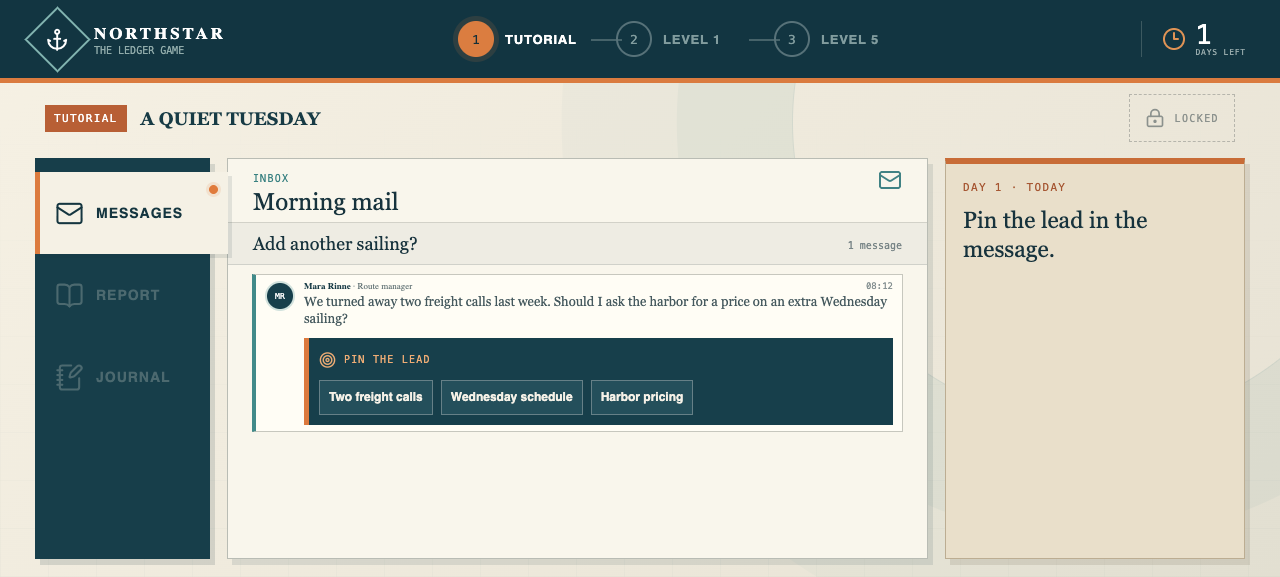
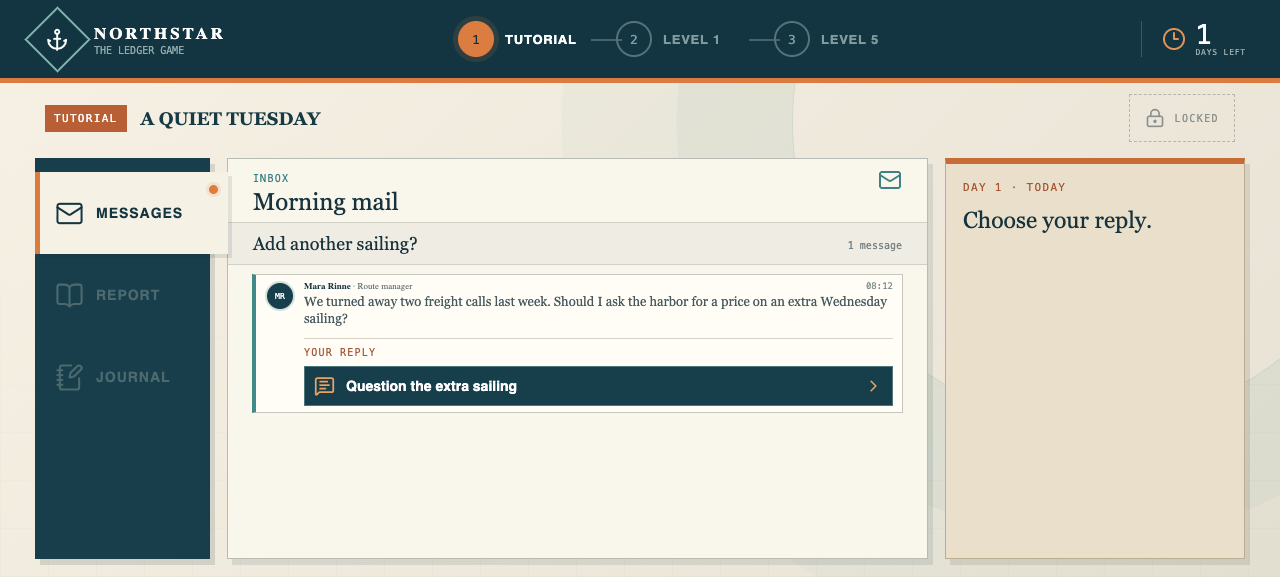
ledger: Turn question unlocks into voiced email replies

Changed region(s): [[0.1875, 0.5615, 0.7188, 0.7487], [0.75, 0.3744, 0.9062, 0.4679]]

diff --git a/aug12/src/styles.ts b/aug12/src/styles.ts
@@ -12,7 +12,7 @@ export const GlobalStyle = createGlobalStyle`
 .tool-title{min-height:88px;padding:19px 25px 15px;display:flex;justify-content:space-between;align-items:flex-start;border-bottom:1px solid #d2d1c8}.tool-title span{font:10px var(--mono);letter-spacing:.12em;color:#398181}.tool-title h2{font:30px var(--display);margin:4px 0 0}.tool-title>svg{color:#408284;width:31px}.report-screen,.audit-screen,.messages-screen{min-height:100%;display:flex;flex-direction:column}.report-table{padding:18px 24px}.report-head,.report-table>button{display:grid;grid-template-columns:1.4fr repeat(2,1fr) .65fr;align-items:center}.report-head{height:38px;background:#173e49;color:#dce7e4;padding:0 15px;font:10px var(--mono);letter-spacing:.08em}.report-head span:not(:first-child){text-align:right}.report-table>button{width:100%;height:68px;border:0;border-bottom:1px solid #c9ccc5;background:#f5f2e9;padding:0 15px;text-align:right;cursor:pointer;position:relative}.report-table>button:hover{background:white}.report-table>button.selected{background:#e3efea;outline:3px solid #368b88;z-index:1}.report-table>button.selected::before{content:'';position:absolute;left:0;top:0;bottom:0;width:6px;background:#378a88}.report-table b{text-align:left;font-size:16px}.report-table span{font:14px var(--mono)}.report-table em{font:normal 14px var(--mono);color:#456b62}.report-table .warn em{color:#bd6b34}.report-table .bad em{color:#b34237;font-weight:700}.report-table .good em{color:#397860}.report-tip{margin:auto 24px 20px;padding:14px 16px;background:#e3e1d8;display:flex;justify-content:space-between;align-items:center}.report-tip b,.report-tip small{display:block}.report-tip b{font-size:15px}.report-tip small{font-size:12px;color:#6e7a79;margin-top:3px}.report-tip button{border:0;background:#1d5d6b;color:white;padding:12px 15px;display:flex;align-items:center;gap:10px;font-size:13px;font-weight:700;cursor:pointer}.report-tip button:disabled{background:#9a9e96;color:#e7e5dd;cursor:not-allowed}.report-tip svg{width:17px}
 .audit-cards{padding:20px 24px;display:grid;grid-template-columns:repeat(2,minmax(220px,1fr));gap:13px}.audit-cards>button{min-height:184px;background:#f1eee4;border:1px solid #bfc2ba;padding:15px;text-align:left;position:relative;cursor:pointer;display:flex;flex-direction:column}.audit-cards>button:hover:not(:disabled){background:white;border-color:#388786;transform:translateY(-2px);box-shadow:0 5px 0 #286b6720}.audit-cards>button:disabled{cursor:not-allowed;opacity:.58}.choice-top{display:flex;align-items:center;justify-content:space-between}.choice-top>span{width:38px;height:38px;display:grid;place-items:center;background:#dce9e5;color:#276e72}.choice-top svg{width:21px}.choice-top em{font:normal 9px var(--mono);color:#b25e35}.audit-cards h3{font:19px var(--display);margin:13px 0 5px}.audit-cards p{font-size:11px;line-height:1.5;color:#697777;margin:0 0 13px}.audit-cards>button>div:last-of-type{margin-top:auto;font:9px var(--mono);letter-spacing:.08em;color:#277175;display:flex;align-items:center;gap:6px}.audit-cards>button>div:last-of-type svg{width:15px}.audit-cards button.done{border-color:#75a28f;background:#e6eee8}.pick-me{position:absolute;right:-5px;top:-7px;background:#dc783d;color:white;padding:5px 8px;font:normal 8px var(--mono);letter-spacing:.08em;transform:rotate(2deg)}
 .day-card{background:#e9dfca}.day-agenda{margin-bottom:16px}.day-agenda>span{font:9px var(--mono);letter-spacing:.11em;color:#7c705e}.day-agenda>p{font:12px/1.5 var(--display);color:#786e60;border-left:2px solid #baa98d;padding-left:10px}.day-agenda>div{display:flex;gap:9px;align-items:center;padding:11px 0;border-bottom:1px solid #cbbda4}.day-agenda svg{width:19px;color:#b96539}.day-agenda b,.day-agenda small{display:block}.day-agenda b{font-size:13px}.day-agenda small{font:10px var(--mono);color:#7b7467;margin-top:3px}.big-action.muted{background:#96978f;box-shadow:0 4px 0 #74766f;cursor:not-allowed}.next-day{background:#c86d3a;box-shadow:0 4px 0 #884729}
-.messages-screen article{margin:27px 28px 15px;background:#fffdf5;border:1px solid #c7c7be;border-left:6px solid #418a89;padding:22px;display:flex;gap:17px;box-shadow:3px 4px 0 #213d4515}.messages-screen article.new{border-left-color:#dc793d}.portrait{width:53px;height:53px;flex:none;border-radius:50%;display:grid;place-items:center;background:#173f4b;color:white;font:13px var(--mono);border:4px solid #d2e2dd}.messages-screen article span{font:9px var(--mono);letter-spacing:.1em;color:#c05d31}.messages-screen article h3{font:24px var(--display);margin:5px 0 9px}.messages-screen article p{font:17px/1.55 var(--display);margin:0;color:#45595e}.lead-picker{margin-top:18px;padding:14px;background:#173f4b;color:white;border-left:5px solid #dc793d}.lead-picker>span{display:flex!important;align-items:center;gap:8px!important;color:#efad75!important;font:10px var(--mono)!important;letter-spacing:.12em!important}.lead-picker>span svg{width:17px}.lead-picker>div{display:flex;flex-wrap:wrap;gap:8px;margin-top:11px}.lead-picker button{min-height:42px;border:1px solid #668087;background:#244f5b;color:#f5f1e7;padding:8px 12px;font-size:12px;font-weight:700;cursor:pointer;display:flex;align-items:center;gap:6px}.lead-picker button:hover{border-color:#eda365;background:#2e5d68}.lead-picker button.miss{border-color:#d87865;color:#ffb4a5;animation:lead-miss .25s ease}.lead-picker button svg{width:15px}@keyframes lead-miss{50%{transform:translateX(3px)}}.attachment-button{width:100%;margin-top:16px;border:1px solid #b8c4bd;background:#e8efe9;padding:11px 12px;display:flex;align-items:center;gap:11px;text-align:left;cursor:pointer}.attachment-button:hover{background:#f4f8f3;border-color:#438581}.attachment-button>svg{width:20px;color:#2c7475;flex:none}.attachment-button>span{flex:1}.attachment-button b{display:block;font-size:14px;color:#214852}.older-messages{margin:0 28px}.older-messages>span{font:9px var(--mono);color:#708080}.older-messages>div{display:flex;gap:9px;align-items:center;padding:9px;border-bottom:1px solid #d5d5cd}.older-messages svg{width:16px;color:#3a7c61}.older-messages b,.older-messages small{display:block}.older-messages b{font-size:11px}.older-messages small{font-size:9px;color:#748181}.message-foot{margin:auto 28px 23px;padding:12px;border-top:1px solid #d0d1ca;display:flex;gap:9px;align-items:center;color:#6b7879}.message-foot svg{width:19px}.message-foot p{margin:0;font:italic 12px var(--display)}
+.messages-screen article{margin:27px 28px 15px;background:#fffdf5;border:1px solid #c7c7be;border-left:6px solid #418a89;padding:22px;display:flex;gap:17px;box-shadow:3px 4px 0 #213d4515}.messages-screen article.new{border-left-color:#dc793d}.portrait{width:53px;height:53px;flex:none;border-radius:50%;display:grid;place-items:center;background:#173f4b;color:white;font:13px var(--mono);border:4px solid #d2e2dd}.messages-screen article span{font:9px var(--mono);letter-spacing:.1em;color:#c05d31}.messages-screen article h3{font:24px var(--display);margin:5px 0 9px}.messages-screen article p{font:17px/1.55 var(--display);margin:0;color:#45595e}.messages-screen article.player-dialogue{margin-top:0;margin-left:72px;border-left-color:#d67a40;background:#f1eee4;animation:mail-arrive .3s ease-out both}.dialogue-choice{margin-top:18px;padding-top:12px;border-top:1px solid #d5d1c5}.dialogue-choice>span{display:block!important;color:#a75633!important;font:10px var(--mono)!important;letter-spacing:.12em!important;margin-bottom:8px}.dialogue-choice button{width:100%;min-height:50px;border:1px solid #4e777c;background:#173f4b;color:white;padding:10px 12px;display:flex;align-items:center;gap:11px;text-align:left;cursor:pointer}.dialogue-choice button:hover{background:#245461;border-color:#d8864f}.dialogue-choice button>svg:first-child{width:21px;color:#efa061;flex:none}.dialogue-choice button>b{font-size:14px;flex:1}.dialogue-choice button>svg:last-child{width:19px;color:#efa061}.attachment-button{width:100%;margin-top:16px;border:1px solid #b8c4bd;background:#e8efe9;padding:11px 12px;display:flex;align-items:center;gap:11px;text-align:left;cursor:pointer}.attachment-button:hover{background:#f4f8f3;border-color:#438581}.attachment-button>svg{width:20px;color:#2c7475;flex:none}.attachment-button>span{flex:1}.attachment-button b{display:block;font-size:14px;color:#214852}.older-messages{margin:0 28px}.older-messages>span{font:9px var(--mono);color:#708080}.older-messages>div{display:flex;gap:9px;align-items:center;padding:9px;border-bottom:1px solid #d5d5cd}.older-messages svg{width:16px;color:#3a7c61}.older-messages b,.older-messages small{display:block}.older-messages b{font-size:11px}.older-messages small{font-size:9px;color:#748181}.message-foot{margin:auto 28px 23px;padding:12px;border-top:1px solid #d0d1ca;display:flex;gap:9px;align-items:center;color:#6b7879}.message-foot svg{width:19px}.message-foot p{margin:0;font:italic 12px var(--display)}
 .request-desk{margin-top:auto;border-top:1px solid #cfcec5;background:#eeece3;padding:14px 24px 18px}.request-heading{display:flex;align-items:baseline;justify-content:space-between;gap:18px;margin-bottom:10px}.request-heading span{font:10px var(--mono);letter-spacing:.11em;color:#a65834}.request-cards{display:grid;grid-template-columns:repeat(2,minmax(210px,1fr));gap:8px}.request-cards>button{min-height:84px;border:1px solid #bfc2ba;background:#fffdf6;padding:10px;display:flex;gap:10px;text-align:left;cursor:pointer}.request-cards>button:hover:not(:disabled){border-color:#378783;background:white;transform:translateY(-1px)}.request-cards>button:disabled{cursor:not-allowed;opacity:.58}.request-cards>button.queued{opacity:1;border-color:#d18a59;background:#fff5e9}.request-cards>button.done{border-color:#82a695;background:#e7eee8}.request-icon{width:33px;height:33px;display:grid;place-items:center;flex:none;background:#dce9e5;color:#276e72}.request-icon svg{width:18px}.request-cards>button>span:last-child{min-width:0;display:flex;flex-direction:column}.request-cards b{font:16px var(--display)}.request-cards small{font-size:11px;line-height:1.35;color:#697777;margin-top:3px}.request-cards em{font:normal 9px var(--mono);letter-spacing:.07em;color:#b35f35;margin-top:auto;padding-top:6px}
 .thread-subject{position:relative;padding:13px 25px 12px;border-bottom:1px solid #d0d1ca;background:#eeece3}.thread-subject h3{font:20px var(--display);margin:0 90px 0 0}.thread-subject small{position:absolute;right:25px;bottom:16px;font:10px var(--mono);color:#778486}.email-thread{padding:12px 24px 8px;display:grid;gap:8px}.tutorial-mail article.thread-message{margin:0;padding:11px 13px;gap:12px;border-left-width:4px;box-shadow:none}.tutorial-mail article.thread-message.player-message,.tutorial-mail article.thread-message.reply-composer{margin-left:45px;border-left-color:#d67a40;background:#f1eee4}.tutorial-mail article.thread-message.reply-composer{border-color:#d6a077;background:#fffaf0}.tutorial-mail .thread-message .portrait{width:38px;height:38px;border-width:3px;font-size:10px}.tutorial-mail .thread-message>div:last-child{min-width:0;flex:1}.tutorial-mail .thread-message header{display:flex;justify-content:space-between;gap:14px;color:#677779;font-size:10px}.tutorial-mail .thread-message header span{font:10px Manrope;letter-spacing:0;color:#677779}.tutorial-mail .thread-message header b{color:#183b46}.tutorial-mail .thread-message time{font:9px var(--mono);color:#859091}.tutorial-mail article.thread-message p{font:15px/1.45 var(--display);margin:5px 0 0;color:#45595e}.tutorial-mail article.reply-composer p{padding:9px 10px;background:white;border:1px solid #d8d1c2}.tutorial-mail .send-mail{margin:9px 0 0 auto;border:0;background:#c96f3a;color:white;padding:9px 12px;display:flex;align-items:center;gap:8px;font-size:10px;font-weight:800;cursor:pointer;box-shadow:0 3px 0 #8d4828}.tutorial-mail .send-mail:hover{transform:translateY(-1px)}.tutorial-mail .send-mail svg{width:15px;height:15px}.tutorial-mail .tool-title{min-height:72px;padding:13px 25px 10px}.tutorial-mail .tool-title h2{font-size:27px;margin-top:2px}.tutorial-mail .tool-title>svg{width:27px}.tutorial-mail .thread-subject{padding:10px 25px}.tutorial-mail .thread-subject h3{font-size:18px}.tutorial-mail .thread-subject small{bottom:13px}.tutorial-mail .email-thread{padding:9px 24px 7px;gap:7px}.tutorial-mail article.thread-message{padding:9px 11px;gap:10px}.tutorial-mail article.thread-message.player-message,.tutorial-mail article.thread-message.reply-composer{margin-left:34px}.tutorial-mail article.thread-message p{font-size:14px;line-height:1.4;margin-top:4px}.tutorial-mail article.reply-composer p{padding:7px 9px}.tutorial-mail .thread-message .portrait{width:34px;height:34px;border-width:2px;font-size:9px}.tutorial-mail .thread-message header,.tutorial-mail .thread-message header span,.tutorial-mail .thread-message time{font-size:9px}.tutorial-mail .request-desk{padding-top:10px;padding-bottom:11px}.tutorial-mail .request-cards>button{min-height:76px}.mail-waiting{min-height:64px;margin-left:45px;border:1px dashed #9caaa6;background:#edf0ea;display:flex;align-items:center;justify-content:center;gap:13px;color:#617374}.mail-waiting>i{width:10px;height:10px;border-radius:50%;background:#3b8b88;box-shadow:18px 0 0 #77aaa5,36px 0 0 #b1c6c1;animation:waiting-dots 1.1s ease-in-out infinite}.mail-waiting span{margin-left:36px}.mail-waiting b,.mail-waiting small{display:block}.mail-waiting b{font-size:11px;color:#284d55}.mail-waiting small{font:9px var(--mono);margin-top:3px}.incoming-message{animation:mail-arrive .42s ease-out both;box-shadow:0 0 0 3px #d9824320!important}.incoming-action{animation:mail-arrive .42s .08s ease-out both}@keyframes waiting-dots{50%{opacity:.35;transform:translateY(-2px)}}@keyframes mail-arrive{from{opacity:0;transform:translateY(-8px)}to{opacity:1;transform:none}}.thread-action{margin:auto 24px 18px;padding:12px 14px;background:#dfeae5;border:1px solid #9fb9ae;display:flex;align-items:center;justify-content:space-between;gap:18px}.thread-action b,.thread-action small{display:block}.thread-action b{font-size:11px}.thread-action small{font-size:9px;color:#6d7c7b;margin-top:3px}.thread-action button{border:0;background:#195868;color:white;padding:11px 13px;display:flex;align-items:center;gap:9px;font-size:10px;font-weight:800;cursor:pointer;white-space:nowrap}.thread-action button:disabled{background:#78928e}.thread-action svg{width:16px}
 .journal-screen{min-height:100%;display:flex;flex-direction:column;background:#f5f0e4}.journal-pages{padding:21px 28px 26px;display:grid;grid-template-columns:repeat(2,minmax(230px,1fr));gap:13px;background:repeating-linear-gradient(to bottom,#f5f0e4 0,#f5f0e4 31px,#d9d0bd 32px);min-height:390px}.journal-pages article{position:relative;background:#f9f3e6dd;border:1px solid #c9bda7;padding:17px 19px;box-shadow:3px 4px 0 #51452f12}.journal-opening{grid-column:1/-1;border-left:5px solid #d17a45!important}.journal-pages article>small,.journal-entry header span{font:8px var(--mono);letter-spacing:.11em;color:#a55d39}.journal-opening p{font:italic 16px/1.6 var(--display);color:#40575b;margin:8px 0 0}.journal-entry header{display:flex;align-items:center;justify-content:space-between}.journal-entry header svg{width:19px;color:#397a62}.journal-entry h3{font:19px var(--display);margin:9px 0 7px}.journal-entry p{font:13px/1.55 var(--display);color:#4f6265;margin:0 0 10px}.journal-entry>small{color:#77817d}.journal-pending{grid-column:1/-1;display:flex;align-items:center;gap:10px;padding:12px 15px;border:1px dashed #b89c77;background:#f3e6d1}.journal-pending svg{width:19px;color:#bd6c3e}.journal-pending b,.journal-pending small{display:block}.journal-pending b{font-size:11px}.journal-pending small{font:9px var(--mono);color:#7c7467;margin-top:2px}
@@ -20,7 +20,7 @@ export const GlobalStyle = createGlobalStyle`
 .result-card{width:min(650px,90vw);background:#f6f1e5;padding:38px 42px;position:relative;box-shadow:0 25px 60px #04121899;border-top:7px solid #3f8b77}.mail-result{width:min(680px,92vw);padding:31px 38px 34px;border-top-color:#d3773d}.mail-result-heading{display:flex;align-items:center;gap:14px;margin-bottom:14px}.mail-result-heading .result-icon{margin:0;background:#f1e3d5;color:#b85e31;border-color:#d49b76}.mail-result-heading span{font:9px var(--mono);letter-spacing:.12em;color:#b45d34}.mail-result-heading h2{font:25px var(--display);margin:3px 0 0}.result-email{background:#fffdf7;border:1px solid #c9c7bc;border-left:5px solid #3f8988;padding:16px 18px;box-shadow:3px 4px 0 #203d4413}.result-email header{display:flex;align-items:center;justify-content:space-between}.result-email header b{font-size:11px;color:#284851}.result-email time{font:8px var(--mono);color:#899391}.result-email p{font:15px/1.6 var(--display);color:#40575c;margin:10px 0 0}.journal-response{min-height:100px;margin:15px 0 12px;padding:13px 17px 13px 37px;position:relative;background:repeating-linear-gradient(to bottom,#ece4d4 0,#ece4d4 27px,#d1c5ae 28px);border:1px solid #c8b99e;overflow:hidden}.journal-response::before{content:'';position:absolute;left:25px;top:0;bottom:0;border-left:1px solid #ce8f7a}.journal-response>div{display:flex;align-items:center;gap:9px}.journal-response svg{width:20px;color:#a65f3d}.journal-response small,.journal-response b{display:block}.journal-response small{font:8px var(--mono);letter-spacing:.1em;color:#9b6a50}.journal-response b{font-size:10px;color:#6e6455;margin-top:2px}.journal-response p{font:italic 14px/1.7 var(--display);color:#354f55;margin:8px 0 0;animation:write-in .85s steps(8,end) both}.journal-response.writing>div svg{animation:pen-write .55s ease-in-out 2}.mail-result .evidence-ticket{margin:0 0 17px;animation:journal-fade .35s ease-out both}.mail-result>button:last-child:disabled{background:#899794;cursor:wait}@keyframes write-in{from{opacity:0;clip-path:inset(0 100% 0 0)}to{opacity:1;clip-path:inset(0)}}@keyframes pen-write{50%{transform:translate(5px,-2px) rotate(-8deg)}}.close{position:absolute;right:13px;top:13px;border:0;background:none;cursor:pointer}.close svg{width:22px}.result-icon{width:49px;height:49px;display:grid;place-items:center;background:#dcebe4;color:#397a60;border:1px solid #71a08b;margin-bottom:17px}.result-card>span{font:10px var(--mono);letter-spacing:.12em;color:#39765e}.result-card h2{font:28px/1.3 var(--display);margin:9px 0 21px}.evidence-ticket{display:flex;align-items:center;gap:11px;background:#e5e1d6;border-left:4px solid #c76d39;padding:13px}.evidence-ticket svg{color:#3b7962}.evidence-ticket small,.evidence-ticket b{display:block}.evidence-ticket small{font:8px var(--mono);letter-spacing:.09em;color:#8b6b53}.evidence-ticket b{font-size:13px;margin-top:3px}.message-preview{margin:15px 0 22px;display:flex;gap:10px;align-items:flex-start;color:#526466}.message-preview svg{width:20px;flex:none;color:#3d7a7b}.message-preview p{font:13px/1.6 var(--display);margin:0}.result-card>button:last-child{margin-left:auto;border:0;background:#195868;color:white;padding:12px 15px;display:flex;align-items:center;gap:12px;font-size:11px;font-weight:700;cursor:pointer}.result-card>button:last-child svg{width:18px}
 .decision-card{width:min(690px,90vw);background:#153743;color:white;padding:37px;position:relative;border:1px solid #688086;box-shadow:0 25px 70px #0009}.decision-card>span{font:10px var(--mono);letter-spacing:.14em;color:#e69658}.decision-card h2{font:34px var(--display);margin:9px 0}.decision-card>p{font-size:13px;color:#a9baba}.decision-options{display:grid;gap:11px;margin-top:23px}.decision-options button{min-height:85px;border:1px solid #587079;background:#1c4653;color:white;display:flex;align-items:center;gap:14px;text-align:left;padding:13px;cursor:pointer}.decision-options button:hover{border-color:#e19757;background:#245461}.decision-options button>i{width:37px;height:37px;flex:none;border:1px solid #779096;display:grid;place-items:center;font:normal 13px var(--mono)}.decision-options button>span{flex:1}.decision-options b,.decision-options small{display:block}.decision-options b{font:18px var(--display)}.decision-options small{font-size:10px;color:#a5b7b8;margin-top:4px}.decision-options em{font:normal 8px var(--mono);color:#f1ae70;border:1px solid #aa7147;padding:4px}.decision-options svg{width:20px}.decision-options button.supported{border-color:#c07d4b}
 .ending{position:fixed;inset:0;z-index:30;background:radial-gradient(circle at 50% 110%,#396e6b,#12343f 55%,#0a222c);color:white;display:grid;place-items:center}.ending.close{background:radial-gradient(circle at 50% 110%,#563d35,#172f38 55%,#0a2029)}.ending-content{text-align:center;width:min(730px,90vw)}.ending-content>svg{width:58px;height:58px;color:#88b7ae;margin-bottom:22px}.ending-content>span{display:block;font:10px var(--mono);letter-spacing:.2em;color:#e39a5c}.ending-content h1{font:42px/1.2 var(--display);margin:14px 0 20px}.ending-content p{font:16px/1.7 var(--display);color:#b7c5c3;max-width:650px;margin:0 auto 28px}.ending-content button{border:1px solid #d18b50;background:transparent;color:#e5a167;padding:12px 16px;display:flex;align-items:center;gap:9px;margin:auto;cursor:pointer}.ending-content button svg{width:18px}
-@media(max-height:760px){.game-header{height:78px}.chapter-intro{height:80px;padding-top:12px;padding-bottom:12px}.chapter-marker b{font-size:18px}.chapter-question{padding-top:9px;padding-bottom:9px}.play-area{padding-bottom:18px}.tools button{min-height:82px}.tool-title{min-height:72px;padding-top:12px}.tool-title h2{font-size:26px}.report-table{padding-top:12px;padding-bottom:12px}.report-table>button{height:56px}.mission-card{padding:17px}.mission-card h2{font-size:23px}.tutorial-mail .tool-title{min-height:62px;padding:9px 25px 7px}.tutorial-mail .tool-title h2{font-size:24px;margin-top:2px}.tutorial-mail .tool-title>svg{width:24px}.thread-subject{padding:7px 25px}.thread-subject h3{font-size:17px}.thread-subject small{bottom:10px}.email-thread{padding:6px 24px 5px;gap:5px}.tutorial-mail article.thread-message{padding:6px 9px;gap:9px}.tutorial-mail article.thread-message.player-message,.tutorial-mail article.thread-message.reply-composer{margin-left:34px}.tutorial-mail article.thread-message p{font-size:13px;line-height:1.3;margin-top:3px}.tutorial-mail article.reply-composer p{padding:5px 7px}.tutorial-mail .send-mail{margin-top:5px;padding:7px 10px}.mail-waiting{min-height:50px;margin-left:34px}.tutorial-mail .thread-message .portrait{width:30px;height:30px;border-width:2px;font-size:8px}.tutorial-mail .thread-message header,.tutorial-mail .thread-message header span,.tutorial-mail .thread-message time{font-size:9px}.lead-picker{margin-top:10px;padding:10px}.lead-picker>div{margin-top:8px}.lead-picker button{min-height:35px;padding:6px 9px}.tutorial-mail .request-cards small{display:none}}
+@media(max-height:760px){.game-header{height:78px}.chapter-intro{height:80px;padding-top:12px;padding-bottom:12px}.chapter-marker b{font-size:18px}.chapter-question{padding-top:9px;padding-bottom:9px}.play-area{padding-bottom:18px}.tools button{min-height:82px}.tool-title{min-height:72px;padding-top:12px}.tool-title h2{font-size:26px}.report-table{padding-top:12px;padding-bottom:12px}.report-table>button{height:56px}.mission-card{padding:17px}.mission-card h2{font-size:23px}.messages-screen>article{margin-top:14px;margin-bottom:10px;padding:16px}.messages-screen>article.player-dialogue{margin-top:0}.messages-screen>article p{font-size:15px;line-height:1.45}.tutorial-mail .tool-title{min-height:62px;padding:9px 25px 7px}.tutorial-mail .tool-title h2{font-size:24px;margin-top:2px}.tutorial-mail .tool-title>svg{width:24px}.thread-subject{padding:7px 25px}.thread-subject h3{font-size:17px}.thread-subject small{bottom:10px}.email-thread{padding:6px 24px 5px;gap:5px}.tutorial-mail article.thread-message{padding:6px 9px;gap:9px}.tutorial-mail article.thread-message.player-message,.tutorial-mail article.thread-message.reply-composer{margin-left:34px}.tutorial-mail article.thread-message p{font-size:13px;line-height:1.3;margin-top:3px}.tutorial-mail article.reply-composer p{padding:5px 7px}.tutorial-mail .send-mail{margin-top:5px;padding:7px 10px}.mail-waiting{min-height:50px;margin-left:34px}.tutorial-mail .thread-message .portrait{width:30px;height:30px;border-width:2px;font-size:8px}.tutorial-mail .thread-message header,.tutorial-mail .thread-message header span,.tutorial-mail .thread-message time{font-size:9px}.dialogue-choice{margin-top:10px;padding-top:8px}.dialogue-choice button{min-height:40px;padding:7px 9px}.tutorial-mail .request-cards small{display:none}}
 @media(max-width:1180px){.game-header{grid-template-columns:200px 1fr 120px;padding:0 22px}.voyage-progress button{width:140px}.play-area{grid-template-columns:160px minmax(540px,1fr) 270px;padding-left:22px;padding-right:22px}.chapter-intro{padding-left:32px;padding-right:32px}.chapter-question{width:340px}}
 
 `

diff --git a/aug12/src/App.tsx b/aug12/src/App.tsx
@@ -17,7 +17,6 @@ import {
   Send,
   Ship,
   Stamp,
-  Target,
   X,
 } from 'lucide-react'
 
@@ -43,7 +42,8 @@ type Stage = {
   number: string
   kicker: string
   question: string
-  leadOptions: Array<{ label: string; correct?: boolean }>
+  replyLabel: string
+  replyText: string
   days: number
   columns: string[]
   rows: Array<{ id: string; label: string; values: string[]; change: string; tone?: 'good' | 'warn' | 'bad' }>
@@ -55,11 +55,8 @@ const stages: Record<StageId, Stage> = {
   onboarding: {
     id: 'onboarding', number: 'TUTORIAL', kicker: 'A QUIET TUESDAY',
     question: 'How full is the cargo deck, really?',
-    leadOptions: [
-      { label: 'Two freight calls', correct: true },
-      { label: 'Wednesday schedule' },
-      { label: 'Harbor pricing' },
-    ],
+    replyLabel: 'Question the extra sailing',
+    replyText: 'Not yet. Before we pay for another run, show me what Kestrel is carrying now. How full is the cargo deck, really?',
     days: 1, columns: ['LAST MONTH', 'THIS MONTH'], focus: 'cargo',
     rows: [
       { id: 'tickets', label: 'Passenger tickets', values: ['¤ 42,800', '¤ 45,200'], change: '+6%', tone: 'good' },
@@ -73,11 +70,8 @@ const stages: Record<StageId, Stage> = {
   level1: {
     id: 'level1', number: 'LEVEL 1', kicker: 'THE VANISHING BICYCLES',
     question: 'Why are bicycle fees down 34%?',
-    leadOptions: [
-      { label: 'Cash looks normal' },
-      { label: 'Bicycle fees fell', correct: true },
-      { label: 'Summer traffic' },
-    ],
+    replyLabel: 'Challenge the bicycle figure',
+    replyText: 'Cash is intact and passengers are up. So why are bicycle fees down 34%? Send me the route report before we blame the dock.',
     days: 3, columns: ['EXPECTED', 'REPORTED'], focus: 'bikes',
     rows: [
       { id: 'tickets', label: 'Passenger tickets', values: ['¤ 47,600', '¤ 51,200'], change: '+8%', tone: 'good' },
@@ -97,11 +91,8 @@ const stages: Record<StageId, Stage> = {
   level5: {
     id: 'level5', number: 'LEVEL 5', kicker: 'THE NORTH REEF VOTE',
     question: 'What is Kestrel doing after Beacon 9?',
-    leadOptions: [
-      { label: 'The board vote' },
-      { label: 'Unexplained fuel', correct: true },
-      { label: 'Route closure' },
-    ],
+    replyLabel: 'Ask where the fuel went',
+    replyText: 'A loss does not explain seventy-two percent more fuel. What is Kestrel doing after Beacon 9? Send me Finance’s report.',
     days: 4, columns: ['OCTOBER', 'NOVEMBER'], focus: 'fuel',
     rows: [
       { id: 'passengers', label: 'Passenger fares', values: ['¤ 151,800', '¤ 153,100'], change: '+1%' },
@@ -282,7 +273,7 @@ function App() {
 
   const stageComplete = stageId === 'onboarding' ? done.length > 0 : stageId === 'level1' ? done.length > 0 : remaining === 0 || done.length >= 2
   const currentPrompt = !questionIsUnlocked
-    ? 'Pin the lead in the message.'
+    ? 'Choose your reply.'
     : stageComplete
       ? 'Case solved.'
       : stageId === 'onboarding' && tutorialMailState === 'draft'
@@ -374,19 +365,18 @@ function RequestDesk({ stage, found, pending, remaining, requestedToday, onQueue
   })}</div></div>
 }
 
-function LeadPicker({ stage, onUnlock }: { stage: Stage; onUnlock: () => void }) {
-  const [miss, setMiss] = useState('')
-  return <div className="lead-picker"><span><Target /> PIN THE LEAD</span><div>{stage.leadOptions.map((option) => <button key={option.label} className={miss === option.label ? 'miss' : ''} onClick={() => option.correct ? onUnlock() : setMiss(option.label)}>{option.label}{miss === option.label && <X />}</button>)}</div></div>
+function DialogueChoice({ stage, onChoose }: { stage: Stage; onChoose: () => void }) {
+  return <div className="dialogue-choice"><span>YOUR REPLY</span><button onClick={onChoose}><MessageSquareText /><b>{stage.replyLabel}</b><ChevronRight /></button></div>
 }
 
 function Messages({ message, stage, found, pending, remaining, requestedToday, questionUnlocked, reportReviewed, tutorialMailState, onUnlockQuestion, onTutorialSend, onOpenReport, onQueue }: { message: { from: string; body: string; new: boolean }; stage: Stage; found: Choice[]; pending: PendingAudit[]; remaining: number; requestedToday: boolean; questionUnlocked: boolean; reportReviewed: boolean; tutorialMailState: TutorialMailState; onUnlockQuestion: () => void; onTutorialSend: () => void; onOpenReport: () => void; onQueue: (choice: Choice) => void }) {
   if (stage.id === 'onboarding' && found.length === 0) {
     const sent = tutorialMailState !== 'draft'
     const replied = tutorialMailState === 'reply'
-    const reply = 'Not yet. Check Kestrel’s current load first. How full is the cargo deck, really?'
-    return <section className="messages-screen tutorial-mail"><div className="tool-title"><div><span>INBOX</span><h2>Morning mail</h2></div><Mail /></div><div className="thread-subject"><h3>Add another sailing?</h3><small>{replied ? '3' : sent ? '2' : '1'} message{!sent ? '' : 's'}</small></div><div className="email-thread" aria-live="polite"><article className="thread-message"><div className="portrait">MR</div><div><header><span><b>Mara Rinne</b> · Route manager</span><time>08:12</time></header><p>We turned away two freight calls last week. Should I ask the harbor for a price on an extra Wednesday sailing?</p>{!questionUnlocked && <LeadPicker key={stage.id} stage={stage} onUnlock={onUnlockQuestion} />}</div></article>{questionUnlocked && !sent && <article className="thread-message reply-composer"><div className="portrait">YOU</div><div><header><span><b>Reply all</b> · Mara, Mira</span><time>DRAFT</time></header><p>{reply}</p><button className="send-mail" onClick={onTutorialSend}><Send /> Send</button></div></article>}{sent && <article className="thread-message player-message sent-message"><div className="portrait">YOU</div><div><header><span><b>You</b> · Owner</span><time>08:19</time></header><p>{reply}</p></div></article>}{tutorialMailState === 'sent' && <div className="mail-waiting" role="status"><i /><span><b>Sent</b><small>Waiting for Mira…</small></span></div>}{replied && <article className="thread-message incoming-message"><div className="portrait">MK</div><div><header><span><b>Mira Koski</b> · Dock clerk</span><time>08:22</time></header><p>I’ll check the freight slips against Kestrel’s loading limit.</p></div></article>}</div>{replied && <RequestDesk stage={stage} found={found} pending={pending} remaining={remaining} requestedToday={requestedToday} onQueue={onQueue} />}</section>
+    const reply = stage.replyText
+    return <section className="messages-screen tutorial-mail"><div className="tool-title"><div><span>INBOX</span><h2>Morning mail</h2></div><Mail /></div><div className="thread-subject"><h3>Add another sailing?</h3><small>{replied ? '3' : sent ? '2' : '1'} message{!sent ? '' : 's'}</small></div><div className="email-thread" aria-live="polite"><article className="thread-message"><div className="portrait">MR</div><div><header><span><b>Mara Rinne</b> · Route manager</span><time>08:12</time></header><p>We turned away two freight calls last week. Should I ask the harbor for a price on an extra Wednesday sailing?</p>{!questionUnlocked && <DialogueChoice stage={stage} onChoose={onUnlockQuestion} />}</div></article>{questionUnlocked && !sent && <article className="thread-message reply-composer"><div className="portrait">YOU</div><div><header><span><b>Reply all</b> · Mara, Mira</span><time>DRAFT</time></header><p>{reply}</p><button className="send-mail" onClick={onTutorialSend}><Send /> Send</button></div></article>}{sent && <article className="thread-message player-message sent-message"><div className="portrait">YOU</div><div><header><span><b>You</b> · Owner</span><time>08:19</time></header><p>{reply}</p></div></article>}{tutorialMailState === 'sent' && <div className="mail-waiting" role="status"><i /><span><b>Sent</b><small>Waiting for Mira…</small></span></div>}{replied && <article className="thread-message incoming-message"><div className="portrait">MK</div><div><header><span><b>Mira Koski</b> · Dock clerk</span><time>08:22</time></header><p>I’ll check the freight slips against Kestrel’s loading limit.</p></div></article>}</div>{replied && <RequestDesk stage={stage} found={found} pending={pending} remaining={remaining} requestedToday={requestedToday} onQueue={onQueue} />}</section>
   }
-  return <section className="messages-screen"><div className="tool-title"><div><span>INBOX</span><h2>{found.length > 0 ? 'Latest reply' : 'New mail'}</h2></div><Mail /></div><article className={message.new ? 'new' : ''}><div className="portrait">{message.from.split(/[ ,]/).map((part) => part[0]).slice(0, 2).join('')}</div><div><span>{message.new ? 'NEW REPLY' : 'NEW MESSAGE'}</span><h3>{message.from}</h3><p>{message.body}</p>{!questionUnlocked && <LeadPicker key={stage.id} stage={stage} onUnlock={onUnlockQuestion} />}{questionUnlocked && !reportReviewed && <button className="attachment-button" onClick={onOpenReport}><BookOpen /><span><b>Open route report</b></span><ArrowRight /></button>}</div></article>{reportReviewed && <RequestDesk stage={stage} found={found} pending={pending} remaining={remaining} requestedToday={requestedToday} onQueue={onQueue} />}{found.length > 1 && <div className="older-messages"><span>EARLIER REPLIES</span>{found.slice(0, -1).reverse().map((choice) => <div key={choice.id}><Check /><span><b>{choice.noteFrom}</b><small>{choice.evidence}</small></span></div>)}</div>}</section>
+  return <section className="messages-screen"><div className="tool-title"><div><span>INBOX</span><h2>{found.length > 0 ? 'Latest reply' : 'New mail'}</h2></div><Mail /></div><article className={message.new ? 'new' : ''}><div className="portrait">{message.from.split(/[ ,]/).map((part) => part[0]).slice(0, 2).join('')}</div><div><span>{message.new ? 'NEW REPLY' : 'NEW MESSAGE'}</span><h3>{message.from}</h3><p>{message.body}</p>{!questionUnlocked && <DialogueChoice stage={stage} onChoose={onUnlockQuestion} />}</div></article>{questionUnlocked && !message.new && <article className="player-dialogue"><div className="portrait">YOU</div><div><span>YOUR EMAIL · SENT</span><p>{stage.replyText}</p>{!reportReviewed && <button className="attachment-button" onClick={onOpenReport}><BookOpen /><span><b>Open route report</b></span><ArrowRight /></button>}</div></article>}{reportReviewed && <RequestDesk stage={stage} found={found} pending={pending} remaining={remaining} requestedToday={requestedToday} onQueue={onQueue} />}{found.length > 1 && <div className="older-messages"><span>EARLIER REPLIES</span>{found.slice(0, -1).reverse().map((choice) => <div key={choice.id}><Check /><span><b>{choice.noteFrom}</b><small>{choice.evidence}</small></span></div>)}</div>}</section>
 }
 
 export default App
